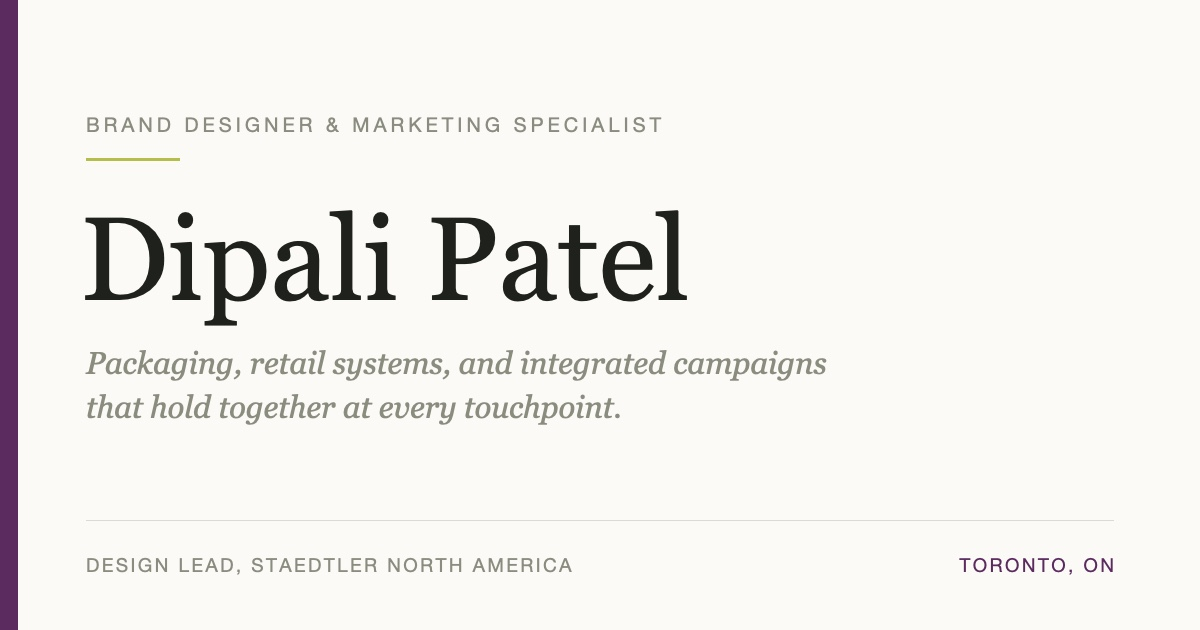
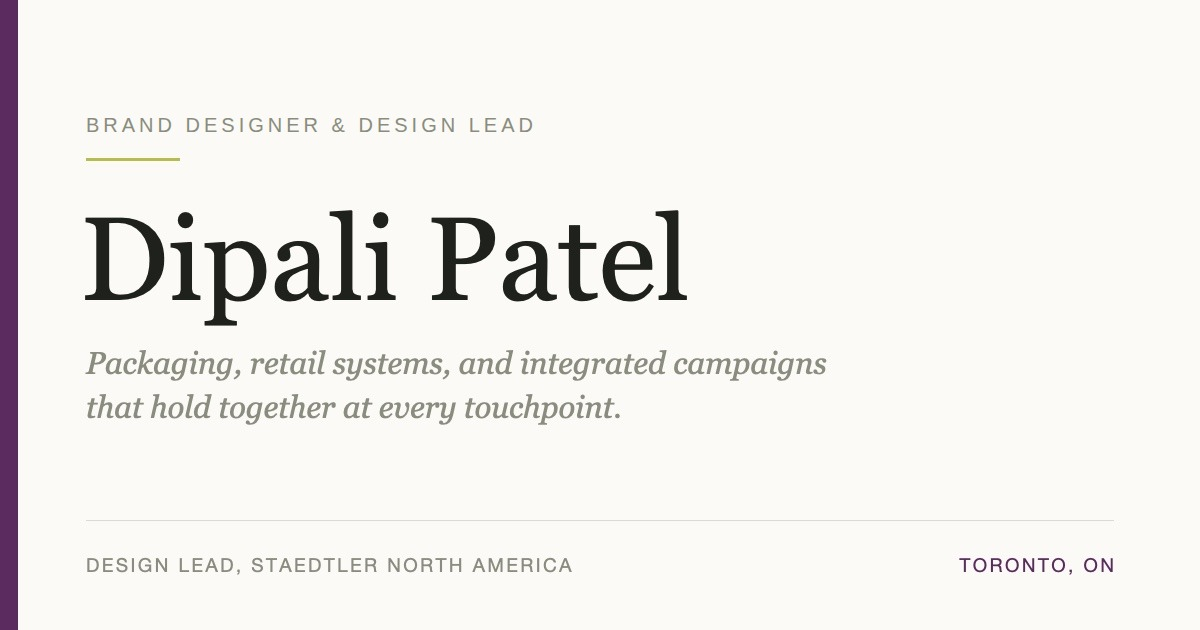
Sharpen the STAEDTLER packaging gallery, and retitle for design lead roles
Packaging gallery: the six tiles were 2-up, ~600 CSS px frames over files as
small as 435 px, so they upscaled and went soft on retina. They are now 3 x 2
(one column on a phone), and tiles 1-3 lead with their 1600 px view rather
than the 435-544 px frame-0, since the first frame is the one on screen
before any cycling. Every lead image now meets its frame on desktop and
tablet.

Positioning: the home hero, page and social titles, meta description,
JSON-LD and About intro now read "brand designer and design lead" instead
of "marketing specialist", aimed at senior brand designer and art director
roles. The job title itself is unchanged wherever it is stated as a title.
og-image.jpg is the original card with only its label strip re-rendered,
since Georgia is not available to regenerate the rest faithfully.

Claude-Session: https://claude.ai/code/session_014YY6zQFZjahTocCD5wRXvs

Changed region(s): [[0.0617, 0.181, 0.555, 0.2111]]

diff --git a/index.html b/index.html
@@ -13,8 +13,8 @@
      so these tags must stay static HTML — they cannot be set at runtime.
      ========================================================================== -->
 
-<title>Dipali Patel — Brand Designer &amp; Marketing Specialist</title>
-<meta name="description" content="Brand designer and marketing specialist. Design Lead at Staedtler North America — packaging artwork, retail systems, and integrated campaigns that hold together at every touchpoint.">
+<title>Dipali Patel — Brand Designer &amp; Design Lead</title>
+<meta name="description" content="Brand designer and design lead. I lead creative for STAEDTLER North America — packaging, campaigns and brand systems, carried from first sketch to the shelf, the feed and the storefront window.">
 <meta name="author" content="Dipali Patel">
 <link rel="canonical" href="https://dipali-design.digital/">
 <meta name="theme-color" content="#FBFAF7">
@@ -22,7 +22,7 @@
 <!-- Open Graph -->
 <meta property="og:type" content="website">
 <meta property="og:site_name" content="Dipali Patel">
-<meta property="og:title" content="Dipali Patel — Brand Designer &amp; Marketing Specialist">
+<meta property="og:title" content="Dipali Patel — Brand Designer &amp; Design Lead">
 <meta property="og:description" content="Packaging artwork, retail systems, and integrated campaigns that hold together at every touchpoint.">
 <meta property="og:url" content="https://dipali-design.digital/">
 <meta property="og:image" content="https://dipali-design.digital/og-image.jpg">
@@ -33,7 +33,7 @@
 
 <!-- Twitter / X -->
 <meta name="twitter:card" content="summary_large_image">
-<meta name="twitter:title" content="Dipali Patel — Brand Designer &amp; Marketing Specialist">
+<meta name="twitter:title" content="Dipali Patel — Brand Designer &amp; Design Lead">
 <meta name="twitter:description" content="Packaging artwork, retail systems, and integrated campaigns that hold together at every touchpoint.">
 <meta name="twitter:image" content="https://dipali-design.digital/og-image.jpg">
 <meta name="twitter:image:alt" content="Dipali Patel — brand design portfolio">
@@ -49,8 +49,8 @@
   "@context": "https://schema.org",
   "@type": "Person",
   "name": "Dipali Patel",
-  "jobTitle": "Brand Designer & Marketing Specialist",
-  "description": "Brand designer and marketing specialist working across packaging, retail presence, and integrated digital campaigns.",
+  "jobTitle": "Brand Designer & Design Lead",
+  "description": "Brand designer and design lead working across packaging, campaigns and brand systems.",
   "url": "https://dipali-design.digital/",
   "image": "https://dipali-design.digital/og-image.jpg",
   "email": "mailto:dipali11patel@gmail.com",
@@ -281,6 +281,14 @@
        which is a single unbreakable token and so overflowed the page. */
     @media (max-width: 760px) { .tilegrid3 { grid-template-columns: repeat(2, minmax(0,1fr)) !important; } }
     @media (max-width: 520px) { .tilegrid3 { grid-template-columns: minmax(0,1fr) !important; } }
+    /* The STAEDTLER packaging gallery is 3-up because its sources are small —
+       435-836px, exported that way by the builder. Two columns made each frame
+       ~600 CSS px, larger than most of the files behind it, so they upscaled
+       and went soft on retina. Three columns bring the frame under 400px, and
+       nine tiles fill three rows exactly. It goes straight to one column on a
+       phone, where a two-column step would orphan the ninth tile. */
+    .pkggal { grid-template-columns: repeat(3, minmax(0,1fr)); }
+    @media (max-width: 560px) { .pkggal { grid-template-columns: minmax(0,1fr); } }
 
     @media (max-width: 560px) {
       /* The chart callout is anchored from its right edge and set nowrap, so
@@ -351,7 +359,7 @@
       <div style="max-width:1240px;margin:0 auto;padding:clamp(48px,8vw,96px) clamp(20px,4vw,48px) clamp(24px,4vw,40px);">
         <div style="font-family:'Abril Fatface','Playfair Display',Georgia,'Times New Roman',serif;font-weight:500;font-size:clamp(38px,6.5vw,88px);line-height:0.98;letter-spacing:-0.01em;">Dipali Patel</div>
         <div style="margin-top: 18px; max-width: 640px; font-size: clamp(16px,2vw,20px); line-height: 1.6; color: #8A8C7E; font-style: italic; font-family:'Work Sans','Helvetica Neue',Helvetica,Arial,sans-serif">
-          Brand designer &amp; marketing specialist with an eye for the fashion, apparel &amp; lifestyle categories — lookbooks, campaigns, and brand systems that hold together at every touchpoint.
+          Brand designer and design lead. I lead creative for STAEDTLER North America — packaging, campaigns and brand systems, carried from first sketch to the shelf, the feed and the storefront window.
         </div>
         <div style="margin-top:32px;display:flex;gap:28px;align-items:center;flex-wrap:wrap;">
           <div onClick="{{ goAbout }}" role="button" tabindex="0" onKeyDown="{{ keyActivate }}" class="taptarget" style="cursor:pointer;font-size:13px;letter-spacing:0.08em;text-transform:uppercase;border-bottom:1px solid #1F211C;padding-bottom:4px;">About Me</div>
@@ -417,7 +425,7 @@
           <image-slot id="about-portrait" src="{{ aboutPortraitSrc }}" shape="rect" placeholder="Portrait of Dipali" alt="Portrait of Dipali Patel" loading="eager" style="width:100%;aspect-ratio:4/5;"></image-slot>
         </sc-if>
         <div style="font-size:16px;line-height:1.75;color:#1F211C;display:flex;flex-direction:column;gap:20px;max-width:640px;">
-          <p style="margin:0;">I'm a Toronto-based brand designer and marketing specialist with almost five years of experience helping consumer packaged goods and lifestyle brands show up consistently — across digital, retail, and multi-platform campaigns. Right now, I'm Design Lead &amp; Marketing Specialist at Staedtler.</p>
+          <p style="margin:0;">I'm a Toronto-based brand designer and design lead with almost five years of experience helping consumer packaged goods and lifestyle brands show up consistently — across digital, retail, and multi-platform campaigns. Right now, I'm Design Lead &amp; Marketing Specialist at Staedtler.</p>
           <p style="margin:0;">My work turns marketing strategy into creative people actually respond to. I specialize in integrated product launches, seasonal campaigns, and high-volume asset production — all while keeping brand consistency tight. I work closely with marketing, product, and sales teams so the creative lines up with business goals and retail timelines, and I bring a production background that keeps things efficient, clear, and accurate right down to the file.</p>
           <p style="margin:0;">CPG and fashion ask for the same discipline: a seasonal calendar, a high volume of assets, retail timelines that don't move, and a brand that has to look like itself everywhere it shows up. My Staedtler and retail packaging work is proof I can run that — I'm looking to bring it to a fashion, apparel, or lifestyle brand next.</p>
           <p style="margin:0;font-size:13.5px;color:#8A8C7E;letter-spacing:0.02em;">Bachelor of Design, OCAD University · Toronto, ON</p>
@@ -1984,12 +1992,12 @@
 
         <div style="max-width:1240px;margin:0 auto;padding:clamp(40px,6vw,64px) clamp(20px,4vw,48px) 0;">
           <div style="font-size:12px;letter-spacing:0.14em;text-transform:uppercase;color:#8A8C7E;margin-bottom:16px;display:inline-block;border-bottom:2px solid var(--accent);padding-bottom:7px;">Gallery</div>
-          <div style="display:grid;grid-template-columns:repeat(2,1fr);gap:clamp(14px,2vw,20px);">
+          <div class="pkggal" style="display:grid;gap:clamp(14px,2vw,20px);">
             <sc-for list="{{ staedtlerPkgGallery }}" as="g" hint-placeholder-count="6">
               <div class="{{ g.containerClass }}">
                 <div class="{{ g.containerClass }}" style="position:relative;width:100%;aspect-ratio:1/1;overflow:hidden;">
                   <sc-for list="{{ g.frames }}" as="frame" hint-placeholder-count="4">
-                    <div class="{{ frame.frameClass }}" style="position:absolute;inset:0;pointer-events:{{ frame.pointerEvents }};transition:opacity 0.3s ease;"><image-slot id="staedtler-pkg-gal-{{ g.index }}-frame-{{ $index }}" src="/images/staedtler-pkg-gal-{{ g.index }}-frame-{{ $index }}.webp" shape="rect" placeholder="{{ frame.label }}" style="width:100%;height:100%;"></image-slot></div>
+                    <div class="{{ frame.frameClass }}" style="position:absolute;inset:0;pointer-events:{{ frame.pointerEvents }};transition:opacity 0.3s ease;"><image-slot id="{{ frame.slotId }}" src="{{ frame.src }}" shape="rect" placeholder="{{ frame.label }}" style="width:100%;height:100%;"></image-slot></div>
                   </sc-for>
                 </div>
                 <sc-if value="{{ g.multi }}" hint-placeholder-val="{{ true }}">
@@ -2555,7 +2563,7 @@ function titleFromState(s) {
     const label = sub ? sub.label : (cat ? (cat.title || cat.label) : 'Work');
     return label + ' — Dipali Patel';
   }
-  return 'Dipali Patel — Brand Designer & Marketing Specialist';
+  return 'Dipali Patel — Brand Designer & Design Lead';
 }
 
 class Component extends DCLogic {
@@ -3226,10 +3234,15 @@ class Component extends DCLogic {
       nextSubcat: () => (subIdx !== -1 && subIdx < RETAIL_SUBCATS.length - 1)
         ? this.selectSubcat(RETAIL_SUBCATS[subIdx + 1].slug)
         : this.backToRetailLanding(),
-      // One entry per gallery tile = how many view files exist for it in
-      // images/. A tile never renders more frames than it has files, so an
-      // empty frame (broken image + dead cycle step) is impossible.
-      staedtlerPkgGallery: [3, 4, 2, 2, 4, 4].map((frameCount, i) => {
+      // One entry per gallery tile, listing its view files in images/ in the
+      // order they show. A tile never renders more frames than it has files, so
+      // an empty frame (broken image + dead cycle step) is impossible.
+      //
+      // Tiles 1-3 lead with frame 1, not 0: their frame-0 files are 435-544px,
+      // soft in a ~370px frame on a 2x screen, and the first frame is the one
+      // on screen before any cycling. Each has a 1600px view to lead with.
+      staedtlerPkgGallery: [[0, 1, 2], [1, 0, 2, 3], [1, 0], [1, 0], [0, 1, 2, 3], [0, 1, 2, 3]].map((order, i) => {
+        const frameCount = order.length;
         const sel = (this.state.frameSel || {})[i];
         const editing = sel !== undefined && sel !== null;
         return {
@@ -3243,6 +3256,8 @@ class Component extends DCLogic {
             return {
               label: `View ${f + 1} of ${frameCount}`,
               number: f + 1,
+              slotId: 'staedtler-pkg-gal-' + i + '-frame-' + order[f],
+              src: '/images/staedtler-pkg-gal-' + i + '-frame-' + order[f] + '.webp',
               frameClass: editing && sel === f ? 'cycle-img show-frame' : 'cycle-img',
               pointerEvents: active ? 'auto' : 'none',
               // Unpinned, the dot highlight is driven by the cycDotN CSS animation

diff --git a/CLAUDE.md b/CLAUDE.md
@@ -388,16 +388,21 @@ laid out 5 + 1 and orphaned the last tile. `.stepgrid` now reads `--cols` /
 mechanism `.worktiles` uses, so a strip of any length fills every row. Six
 steps go 6 / 3 / 2; three finals go 3 / 3 / 1.
 
-**The STAEDTLER packaging images are low-resolution, and that is issue #28.**
-Seventeen of the 28 images on `/work/retail-packaging/staedtler-packaging` are
-displayed larger than their source: the gallery frames are 562 CSS px (1124
-device px at 2x) and the files behind them run 435-836 px, so they are soft on
-any retina screen. `staedtler-pkg-gal-3-frame-0` is the worst at 435x544 in a
-562x562 frame. This is not a crop or a code problem — the files came in small
-from the builder export and no larger version exists anywhere in the repo, so
-it needs re-exported sources at roughly 1200 px on the long edge. The
-alternative, if new files never arrive, is to lay the gallery out 3-up so the
-frames drop to ~365 px and most of the existing sources are then adequate.
+**The STAEDTLER packaging gallery is 3-up because its files are small (#28).**
+The six gallery tiles on `/work/retail-packaging/staedtler-packaging` were 2-up,
+a ~600 CSS px frame, and many of the files behind them run 435-836 px — soft on
+any retina screen. `.pkggal` now lays them 3 x 2 (~370 px frames, 740 device px
+at 2x) and one column on a phone. The first frame is the one on screen before
+any cycling, so `staedtlerPkgGallery` lists each tile's files in display order,
+and tiles 1-3 lead with their 1600 px view instead of the 435-544 px frame-0.
+Every lead image is now at or above its frame size on desktop and tablet; the
+small files remain as later frames. Re-exported sources at ~1200 px would still
+be the real fix.
+
+`staedtler-pkg-gal-6/7/8-*` exist in `images/` but are not in the gallery and
+never were. Most repeat views already shown; the 144 classpack and 40-pack
+dielines are the only new ones. Adding tiles means keeping the count a multiple
+of three.
 
 **The client roster is named on the home page.** `CLIENTS` drives a wrap row
 between the hero and Selected Work. Until now the landing page named Staedtler
